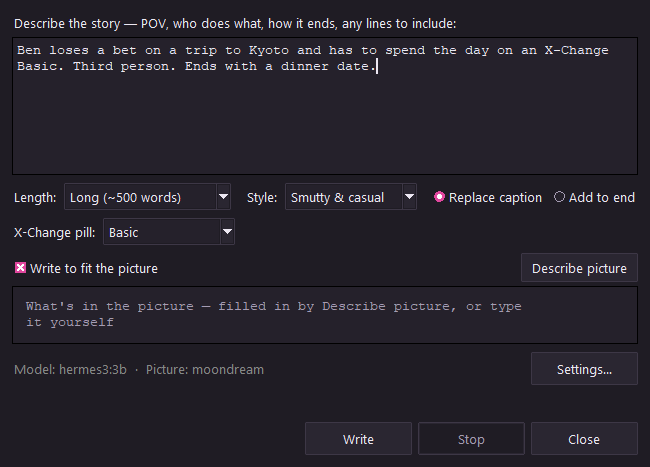
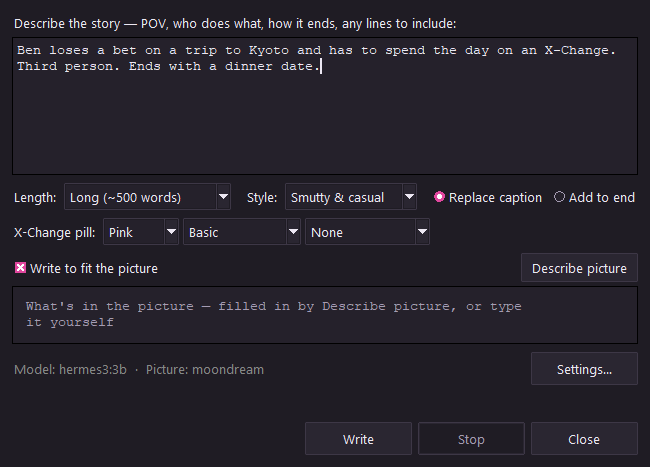
Write with AI: X-Change pills follow the X-Change wiki
The X-Change pill choice is now Color + Duration + Flavor, as the X-Change
community wiki defines them: Pink (man to woman), Blue (woman to man),
Purple (mix and match); Basic (24 hours or less, no pregnancy, STD
protection), X-Tra Strength (about 30 days; pregnancy or 12 in a row make
it permanent) and Plus (permanent from the start); and the wiki's flavors
(Bimbo, Candy, Choice, Clone, Compliant, Continue, Cum-Cure, Denial,
Drain, Forget, Leash, Match, Quota, Resistance, Synthetic, Wearable,
Breeder, Surrogate, X-Tend, Bull, Sissy, ...), each explained to the
writer. Removes the made-up Lite and Weekly and the wrong "24 hours plus
fine print" Plus. In the X-Change format the title becomes the pill's
name ("X-Change Plus Bimbo") and the pill color's preset is applied.

diff --git a/ai_writer.py b/ai_writer.py
@@ -55,42 +55,113 @@ LENGTHS = {
     "Very long (1000+ words)": 1100,
 }
 
-# X-Change: the pill universe of a whole genre of TG captions. Each variant
-# is (the caption title, its rules). Durations follow the community's usual
-# lore; the user's prompt can always override them.
-XCHANGE_VARIANTS = {
-    "Basic": ("X-Change",
-              "X-Change Basic: lasts 24 hours, then she changes back."),
-    "Lite": ("X-Change Lite",
-             "X-Change Lite: a mild dose that wears off after a few hours."),
-    "Plus": ("X-Change Plus",
-             "X-Change Plus: lasts 24 hours and makes her extra sensitive and eager, but the "
-             "fine print says that if she gets creampied and knocked up while it's active, "
-             "she stays a woman until the baby comes — effectively stuck."),
-    "X-Tra Strength": ("X-Change X-Tra Strength",
-                       "X-Change X-Tra Strength: lasts 30 days."),
-    "Weekly": ("X-Change Weekly",
-               "X-Change Weekly: lasts 7 days."),
-    "Bimbo": ("X-Change Bimbo",
-              "X-Change Bimbo: makes her a ditzy, giggly, horny bimbo bombshell — thinking "
-              "gets hard, attention feels amazing, and she forgets things she used to know."),
-    "Breeder": ("X-Change Breeder",
-                "X-Change Breeder: makes her extremely fertile and needy; if she gets "
-                "pregnant while it's active, the change is permanent."),
+# X-Change: the pill universe of a whole genre of TG captions, as the
+# X-Change community wiki describes it. A pill is Color + Duration + Flavor.
+XCHANGE_COLORS = {
+    "Pink": ("man", "woman", "a Pink pill turns a man into a woman"),
+    "Blue": ("woman", "man", "a Blue pill turns a woman into a man"),
+    "Purple": ("person", "person", "a Purple pill is mix and match — any combination of "
+               "gender and sex, like a woman with a penis or a man with a vagina"),
+}
+XCHANGE_DURATIONS = {
+    "Basic": ("X-Change Basic, the affordable hallmark pill: it lasts 24 hours or less, then "
+              "you turn back. It's impossible to get pregnant on Basic, and it protects "
+              "against STDs."),
+    "X-Tra Strength": ("X-Change X-Tra Strength, more expensive: it lasts about 30 days. "
+                       "Pregnancy is possible but very unlikely — and if it happens, the "
+                       "change is permanent. Taking 12 back to back without a break also "
+                       "makes it permanent."),
+    "Plus": ("X-Change Plus, the very expensive deluxe pill: the change is permanent from "
+             "the moment it's taken, with no way to turn back. You're indistinguishable "
+             "from anyone else of that gender, pros and cons included."),
+}
+# Flavors add an effect on top of the duration (the wiki leaves the details
+# to each author). "" = none.
+XCHANGE_FLAVORS = {
+    "Bimbo": "you become a hypersexualized, ditzy bombshell version of the new gender",
+    "Candy": "kissing and bodily fluids are vastly improved and can taste like candy",
+    "Choice": ("they come in linked pairs — the first pill changes you, only its paired "
+               "pill changes you back, so losing it means you're stuck"),
+    "Clone": "a special order (usually needs DNA) that turns you into one specific person",
+    "Compliant": "you do whatever you're told while it lasts",
+    "Continue": ("every orgasm extends the duration (a 24-hour pill gets another 24 hours); "
+                 "too many and it becomes permanent"),
+    "Cum-Cure": "you only turn back after swallowing a creamy load",
+    "Custom": "a one-off pill that does something unique — whatever the story needs",
+    "Denial": "you still get horny, but you can't climax while it lasts",
+    "Drain": "the more you cum, the dumber you get, until it wears off",
+    "Dreamwalker": "no physical change — a lucid dream as the new gender",
+    "Forget": "once the change is done you don't remember taking it; you think you've always been this way",
+    "Knock-Off": "a cheap, unofficial copy with severe side effects",
+    "Leash": ("for 7 days you're bonded to the first person you see after changing: past "
+              "100 meters from them you get anxious, past 500 meters sick and dizzy, and "
+              "being near them feels more and more comforting"),
+    "Match": "a special order linked to one person — you can only climax with them",
+    "Oral": "you enjoy using your mouth on things far more",
+    "Passion": "especially powerful orgasms",
+    "Psyche": "another personality controls your body while it lasts",
+    "Quota": "you turn back only after sleeping with a set number of people",
+    "Resistance": "every orgasm has a chance of making the change permanent",
+    "Swell": "you gain a lot of extra weight along with the change",
+    "Synthetic": ("you become a living silicone sex doll — heightened sensitivity, fully "
+                  "conscious, but unable to move"),
+    "Synthetic Plus": ("an upgraded Synthetic with limited movement and extra-stimulating "
+                       "muscles; conscious, but you can't fully hold up your own weight"),
+    "Wearable": "clothing or items infused with X-Change; the change lasts while you wear them",
+    "Breeder": ("(needs a vagina) greatly increased fertility; getting pregnant makes the "
+                "change permanent"),
+    "Surrogate": "(needs a vagina) you can get pregnant, and turn back afterwards",
+    "X-Tend": ("(needs a vagina) a week-long pill: take a creampie from someone bigger than "
+               "you were and don't orgasm all week, and your cock comes back bigger — but "
+               "cum even once and it comes back smaller"),
+    "Bull": "(needs a penis) greatly increased potency",
+    "Sissy": "(needs a penis) you can only get hard or climax through anal sex",
 }
 
-XCHANGE_GUIDE = (
-    "This is an X-Change caption. In its world X-Change is a legal, over-the-counter "
-    "pill that turns a man into a woman within minutes, and everyone knows about it. "
-    "X-Change stories usually go like this: set up who the guy is and why he ends up "
-    "taking the pill — punishment, revenge, a prank, a dare, money or curiosity; he's "
-    "often tricked or made to take it. Name the pill by its full name, \"{title}\". "
-    "Describe the fast change in his body. After the change, call her she/her. Her new "
-    "body is extra sensitive and she gets turned on easily, and the story builds to her "
-    "first sexual experiences as a woman. The pill's rules matter and often drive the "
-    "twist (the fine print, a refill, a choice to stay). End on a punchy last line. "
-    "This pill's rules: {rules}"
-)
+
+def xchange_title(pill: dict) -> str:
+    """The caption title for a pill: "X-Change", "X-Change Plus",
+    "X-Change X-Tra Strength Bimbo"... (Basic is just "X-Change")."""
+    parts = ["X-Change"]
+    if pill.get("duration") and pill["duration"] != "Basic":
+        parts.append(pill["duration"])
+    if pill.get("flavor"):
+        parts.append(pill["flavor"])
+    return " ".join(parts)
+
+
+def xchange_guide(pill: dict) -> str:
+    """What the writer needs to know to write this pill's X-Change story."""
+    color = pill.get("color") or "Pink"
+    before, after, color_rule = XCHANGE_COLORS.get(color, XCHANGE_COLORS["Pink"])
+    duration = pill.get("duration") or "Basic"
+    flavor = pill.get("flavor") or ""
+    title = xchange_title(dict(pill, color=color, duration=duration))
+    if color == "Pink":
+        who = ("set up who the guy is and why he ends up taking the pill — punishment, "
+               "revenge, a prank, a dare, money or curiosity; he's often tricked or made "
+               "to take it. Describe the fast change in his body. After the change, call "
+               "her she/her. Her new body is extra sensitive and she gets turned on easily, "
+               "and the story builds to her first sexual experiences as a woman.")
+    elif color == "Blue":
+        who = ("set up who she is and why she ends up taking the pill. Describe the fast "
+               "change in her body. After the change, call him he/him, and the story builds "
+               "to his first experiences as a man.")
+    else:
+        who = ("set up who takes the pill and why, describe the exact mix of body they end "
+               "up with, and build to their first experiences with it.")
+    rules = (f"X-Change pills change your body within seconds; {color_rule}. "
+             f"This one is {XCHANGE_DURATIONS[duration]}")
+    if flavor:
+        rules += f" Its flavor is {flavor}: {XCHANGE_FLAVORS.get(flavor, flavor)}."
+    return (
+        "This is an X-Change caption. In its world X-Change is a legal, over-the-counter "
+        "pill everyone knows about. X-Change stories usually go like this: " + who +
+        f" Name the pill by its full name, \"{title}\". The pill's rules matter and often "
+        "drive the twist. End on a punchy last line. Follow these rules exactly and don't "
+        "invent different ones: " + rules
+    )
+
 
 # How the story reads. Captions are read fast, by everyone: the default is
 # the plain, dirty-minded voice typical of TG captions, not literary prose.
@@ -215,14 +286,14 @@ def _unreachable_msg(base_url: str) -> str:
 
 
 def build_messages(prompt: str, words: int, picture: str = "",
-                   style: str = DEFAULT_STYLE, xchange: str = "") -> list:
+                   style: str = DEFAULT_STYLE, xchange: Optional[dict] = None) -> list:
     """`picture` is a description of the caption's image, if there is one,
     so the story can match who and what is in it. `style`: a key of STYLES.
-    `xchange`: a key of XCHANGE_VARIANTS to write an X-Change story."""
+    `xchange`: a pill ({"color", "duration", "flavor"}) to write an X-Change
+    story about."""
     user = prompt.strip()
-    if xchange in XCHANGE_VARIANTS:
-        title, rules = XCHANGE_VARIANTS[xchange]
-        user = XCHANGE_GUIDE.format(title=title, rules=rules) + "\n\n" + user
+    if xchange:
+        user = xchange_guide(xchange) + "\n\n" + user
     if picture.strip():
         note = ""
         if picture_may_show_minor(picture):
@@ -735,7 +806,7 @@ def one_block(chunks: Iterator[str]) -> Iterator[str]:
 def stream_story(prompt: str, words: int, settings: dict,
                  cancel: Optional[threading.Event] = None,
                  timeout: float = 300.0, picture: str = "",
-                 xchange: str = "") -> Iterator[str]:
+                 xchange: Optional[dict] = None) -> Iterator[str]:
     """Yield the story text as it streams from POST /chat/completions. A
     picture flagged as maybe showing a minor keeps the story non-sexual: a
     sexual request is refused and a reply that turns sexual is stopped."""

diff --git a/caption_creator.py b/caption_creator.py
@@ -222,9 +222,11 @@ def _app_version() -> str:
 _WHATS_NEW = {
     "1.2.0": [
         ("AI writing", [
-            ("X-Change stories", "Write with AI has an X-Change pill choice — Basic, Lite, Plus, "
-             "X-Tra Strength, Weekly, Bimbo, Breeder. It writes a proper X-Change story with "
-             "that pill's rules, and in the X-Change format the title becomes the pill's name"),
+            ("X-Change stories", "Write with AI has an X-Change pill choice — color (Pink, Blue, "
+             "Purple), duration (Basic, X-Tra Strength, Plus) and flavor (Bimbo, Compliant, "
+             "Continue, Leash, Breeder and more, from the X-Change wiki). It writes a proper "
+             "X-Change story with that pill's rules, and in the X-Change format the title "
+             "becomes the pill's name"),
             ("Longer stories", "lengths now go Very short (~60), Short (~150), Medium (~300), "
              "Long (~500) and Very long (1000+ words), and stories come out as one block of text"),
             ("Plain voice", "stories default to the plain, smutty voice of typical TG captions; "
@@ -6406,20 +6408,40 @@ class CaptionApp:
         ttk.Radiobutton(opts, text="Add to end", value="append",
                         variable=mode_var).pack(side="left", padx=(6, 0))
 
-        # X-Change: write it as an X-Change pill story, for a given variant.
+        # X-Change: write it as an X-Change pill story. A pill is Color +
+        # Duration + Flavor, with the rules from the X-Change wiki.
         xc_row = ttk.Frame(body)
         xc_row.grid(row=3, column=0, columnspan=2, sticky="ew", pady=(8, 0))
+        last = getattr(self, "_ai_last_xchange", None) or {
+            "color": "Pink", "duration": "Basic", "flavor": ""}
+        in_xc = self._format_var.get() == "X-Change"
         ttk.Label(xc_row, text="X-Change pill:").pack(side="left")
-        xc_default = (getattr(self, "_ai_last_xchange", "Basic")
-                      if self._format_var.get() == "X-Change" else "None")
-        xc_var = tk.StringVar(value=xc_default)
-        tooltip(ttk.Combobox(xc_row, textvariable=xc_var, state="readonly", width=15,
-                             values=["None"] + list(ai_writer.XCHANGE_VARIANTS)),
-                "Write an X-Change pill story: the AI knows how they go and uses\n"
-                "that pill's rules (Basic 24 hours, Lite a few hours, Plus and its\n"
-                "fine print, X-Tra Strength 30 days, Weekly 7 days, Bimbo, Breeder).\n"
-                "In the X-Change format, the title changes to the pill's name.").pack(
+        xc_color = tk.StringVar(value=last["color"] if in_xc else "None")
+        xc_duration = tk.StringVar(value=last["duration"])
+        xc_flavor = tk.StringVar(value=last["flavor"] or "None")
+        color_box = ttk.Combobox(xc_row, textvariable=xc_color, state="readonly", width=7,
+                                 values=["None"] + list(ai_writer.XCHANGE_COLORS))
+        tooltip(color_box, "Write an X-Change pill story. Pink: man to woman.\n"
+                           "Blue: woman to man. Purple: mix and match.").pack(
             side="left", padx=(6, 0))
+        dur_box = ttk.Combobox(xc_row, textvariable=xc_duration, state="readonly", width=13,
+                               values=list(ai_writer.XCHANGE_DURATIONS))
+        tooltip(dur_box, "Basic: 24 hours or less, no pregnancy.\n"
+                         "X-Tra Strength: about 30 days (pregnancy or 12 in a row = permanent).\n"
+                         "Plus: permanent.").pack(side="left", padx=(4, 0))
+        flavor_box = ttk.Combobox(xc_row, textvariable=xc_flavor, state="readonly", width=14,
+                                  values=["None"] + list(ai_writer.XCHANGE_FLAVORS))
+        tooltip(flavor_box, "An extra effect on top (Bimbo, Compliant, Continue, Leash,\n"
+                            "Breeder...). The AI is told what each one does. In the\n"
+                            "X-Change format the title becomes the pill's name, e.g.\n"
+                            "\"X-Change Plus Bimbo\".").pack(side="left", padx=(4, 0))
+
+        def _sync_xc(*_a) -> None:
+            on = xc_color.get() in ai_writer.XCHANGE_COLORS
+            for b in (dur_box, flavor_box):
+                b.config(state="readonly" if on else "disabled")
+        xc_color.trace_add("write", _sync_xc)
+        _sync_xc()
 
         # The picture: a vision model describes it (editable) and the story
         # is written to fit.
@@ -6493,10 +6515,13 @@ class CaptionApp:
             target = state.get("target") or self._text_box
             if (not err and not blocked and state.get("xchange")
                     and self._format_var.get() == "X-Change"):
-                # The X-Change title names the pill: "X-Change Plus", ...
+                # The X-Change title names the pill ("X-Change Plus Bimbo"),
+                # and the panel takes that pill color's preset.
+                pill = state["xchange"]
                 self._header_text_box.delete("1.0", "end")
-                self._header_text_box.insert(
-                    "1.0", ai_writer.XCHANGE_VARIANTS[state["xchange"]][0])
+                self._header_text_box.insert("1.0", ai_writer.xchange_title(pill))
+                if pill["color"] in _PILL_PRESETS:
+                    self._apply_preset(*_PILL_PRESETS[pill["color"]])
                 self._safe_refresh()
             if target.winfo_exists():
                 if blocked:
@@ -6606,10 +6631,13 @@ class CaptionApp:
                     return
                 self._ai_pic_desc = (self._ai_picture_key(), picture)
             words = ai_writer.LENGTHS.get(length_var.get(), 500)
-            xchange = xc_var.get() if xc_var.get() in ai_writer.XCHANGE_VARIANTS else ""
-            state["xchange"] = xchange
-            if xchange:
+            xchange = None
+            if xc_color.get() in ai_writer.XCHANGE_COLORS:
+                flavor = xc_flavor.get()
+                xchange = {"color": xc_color.get(), "duration": xc_duration.get(),
+                           "flavor": flavor if flavor in ai_writer.XCHANGE_FLAVORS else ""}
                 self._ai_last_xchange = xchange
+            state["xchange"] = xchange
             # The whole run (clear + every streamed chunk) is one undo step,
             # written into whichever caption editor is showing.
             target = self._text_target()

diff --git a/tests/test_match_picture.py b/tests/test_match_picture.py
@@ -259,22 +259,41 @@ class XChangeAndLengthTests(unittest.TestCase):
         self.assertGreaterEqual(ai_writer.LENGTHS["Very long (1000+ words)"], 1000)
 
     def test_xchange_story_gets_the_guide_and_the_pill_rules(self):
+        pill = {"color": "Pink", "duration": "X-Tra Strength", "flavor": ""}
         user = ai_writer.build_messages("Kyle gets caught catcalling.", 500,
-                                        xchange="X-Tra Strength")[1]["content"]
+                                        xchange=pill)[1]["content"]
         self.assertIn("This is an X-Change caption", user)
         self.assertIn('"X-Change X-Tra Strength"', user)
         self.assertIn("30 days", user)
+        self.assertIn("12 back to back", user)
         self.assertTrue(user.endswith("Kyle gets caught catcalling."))
+
+    def test_wiki_rules(self):
+        # Plus is permanent from the start; Basic can't get you pregnant.
+        self.assertIn("permanent from the moment", ai_writer.XCHANGE_DURATIONS["Plus"])
+        self.assertIn("impossible to get pregnant", ai_writer.XCHANGE_DURATIONS["Basic"])
+        self.assertNotIn("Lite", ai_writer.XCHANGE_DURATIONS)
+        self.assertEqual(set(ai_writer.XCHANGE_COLORS), {"Pink", "Blue", "Purple"})
+
+    def test_flavor_and_color_reach_the_writer(self):
+        pill = {"color": "Blue", "duration": "Basic", "flavor": "Leash"}
+        user = ai_writer.build_messages("x", 300, xchange=pill)[1]["content"]
+        self.assertIn("woman into a man", user)
+        self.assertIn("100 meters", user)
+        self.assertIn("call him he/him", user)
 
     def test_no_xchange_by_default(self):
         user = ai_writer.build_messages("He took a pill.", 120)[1]["content"]
         self.assertNotIn("X-Change", user)
 
-    def test_titles_name_the_variant(self):
-        titles = {k: v[0] for k, v in ai_writer.XCHANGE_VARIANTS.items()}
-        self.assertEqual(titles["Basic"], "X-Change")
-        self.assertEqual(titles["Plus"], "X-Change Plus")
-        self.assertEqual(titles["X-Tra Strength"], "X-Change X-Tra Strength")
+    def test_titles_name_the_pill(self):
+        t = ai_writer.xchange_title
+        self.assertEqual(t({"color": "Pink", "duration": "Basic", "flavor": ""}), "X-Change")
+        self.assertEqual(t({"color": "Pink", "duration": "Plus", "flavor": ""}), "X-Change Plus")
+        self.assertEqual(t({"color": "Pink", "duration": "X-Tra Strength", "flavor": ""}),
+                         "X-Change X-Tra Strength")
+        self.assertEqual(t({"color": "Pink", "duration": "Basic", "flavor": "Bimbo"}),
+                         "X-Change Bimbo")
 
     def test_story_is_one_block(self):
         out = "".join(ai_writer.one_block(iter(["First.\n\nSecond ", "line.\n", "\nEnd."])))

diff --git a/README.md b/README.md
@@ -280,9 +280,12 @@ person POV of a man waking up from hypnosis to find his sister feminized him,
 ending on her line: …"*. Pick a length — Very short (~60), Short (~150), Medium (~300),
 Long (~500, the default) or Very long (1000+ words) — and whether it
 replaces the caption or is added to the end (stories come out as one block of
-text); pick an **X-Change pill** (Basic, Lite, Plus, X-Tra Strength, Weekly,
-Bimbo, Breeder) to have it write a proper X-Change story using that pill's
-rules — in the X-Change format the title then changes to the pill's name; edit the result freely, or
+text); pick an **X-Change pill** — color (Pink, Blue, Purple), duration
+(Basic, X-Tra Strength, Plus) and an optional flavor (Bimbo, Compliant,
+Continue, Leash, Breeder and the rest of the X-Change wiki's list) — to have
+it write a proper X-Change story that follows that pill's rules; in the
+X-Change format the title then becomes the pill's name ("X-Change Plus
+Bimbo") and the pill color's preset is applied; edit the result freely, or
 **Write** again for another take (Ctrl+Enter in the prompt box also writes).
 
 It runs on **your own computer** with an open-source model, so it will write
